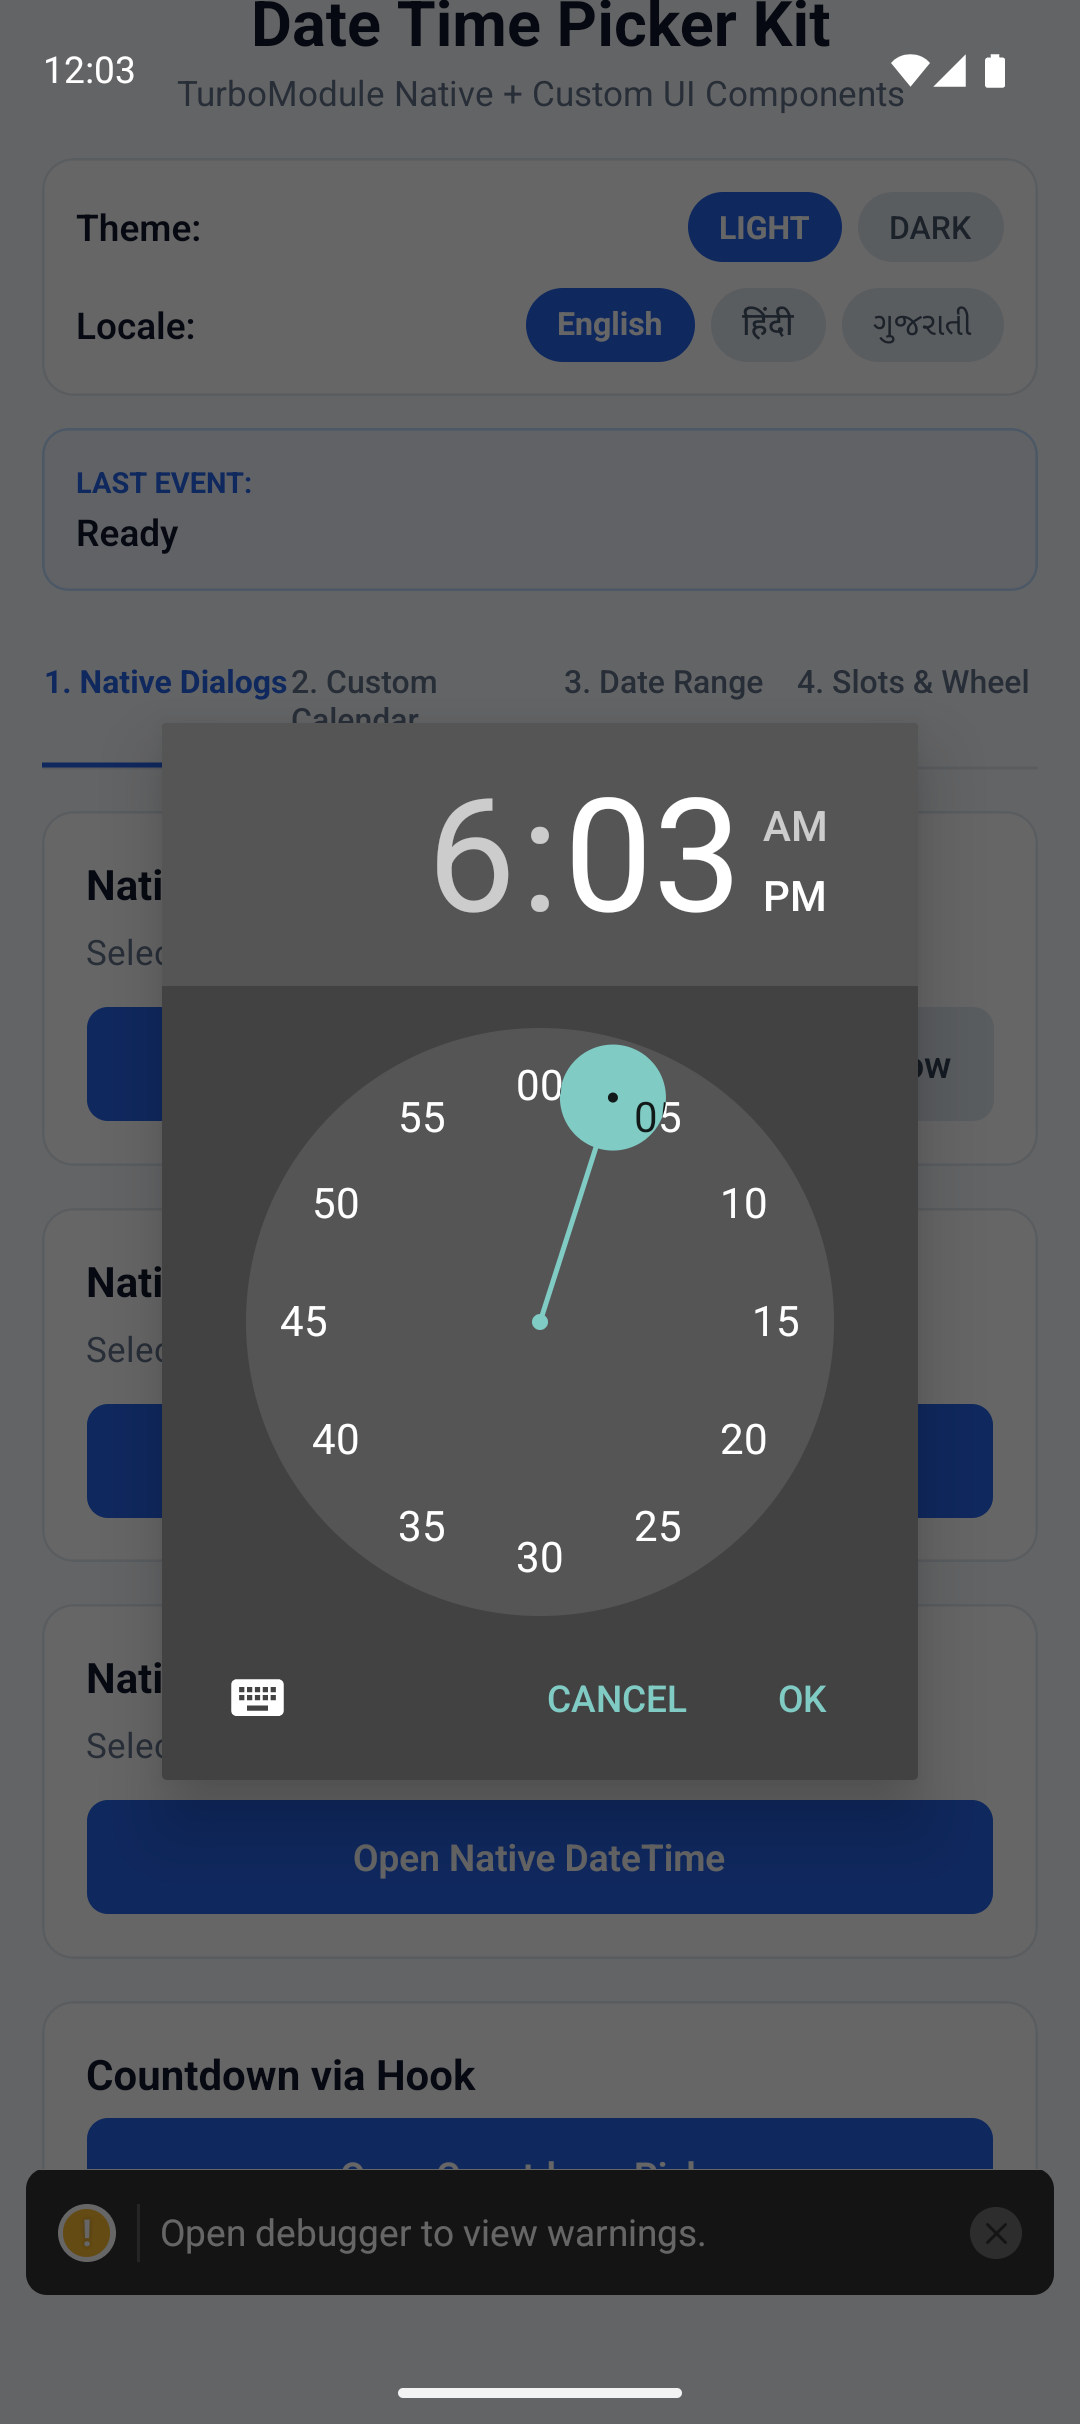
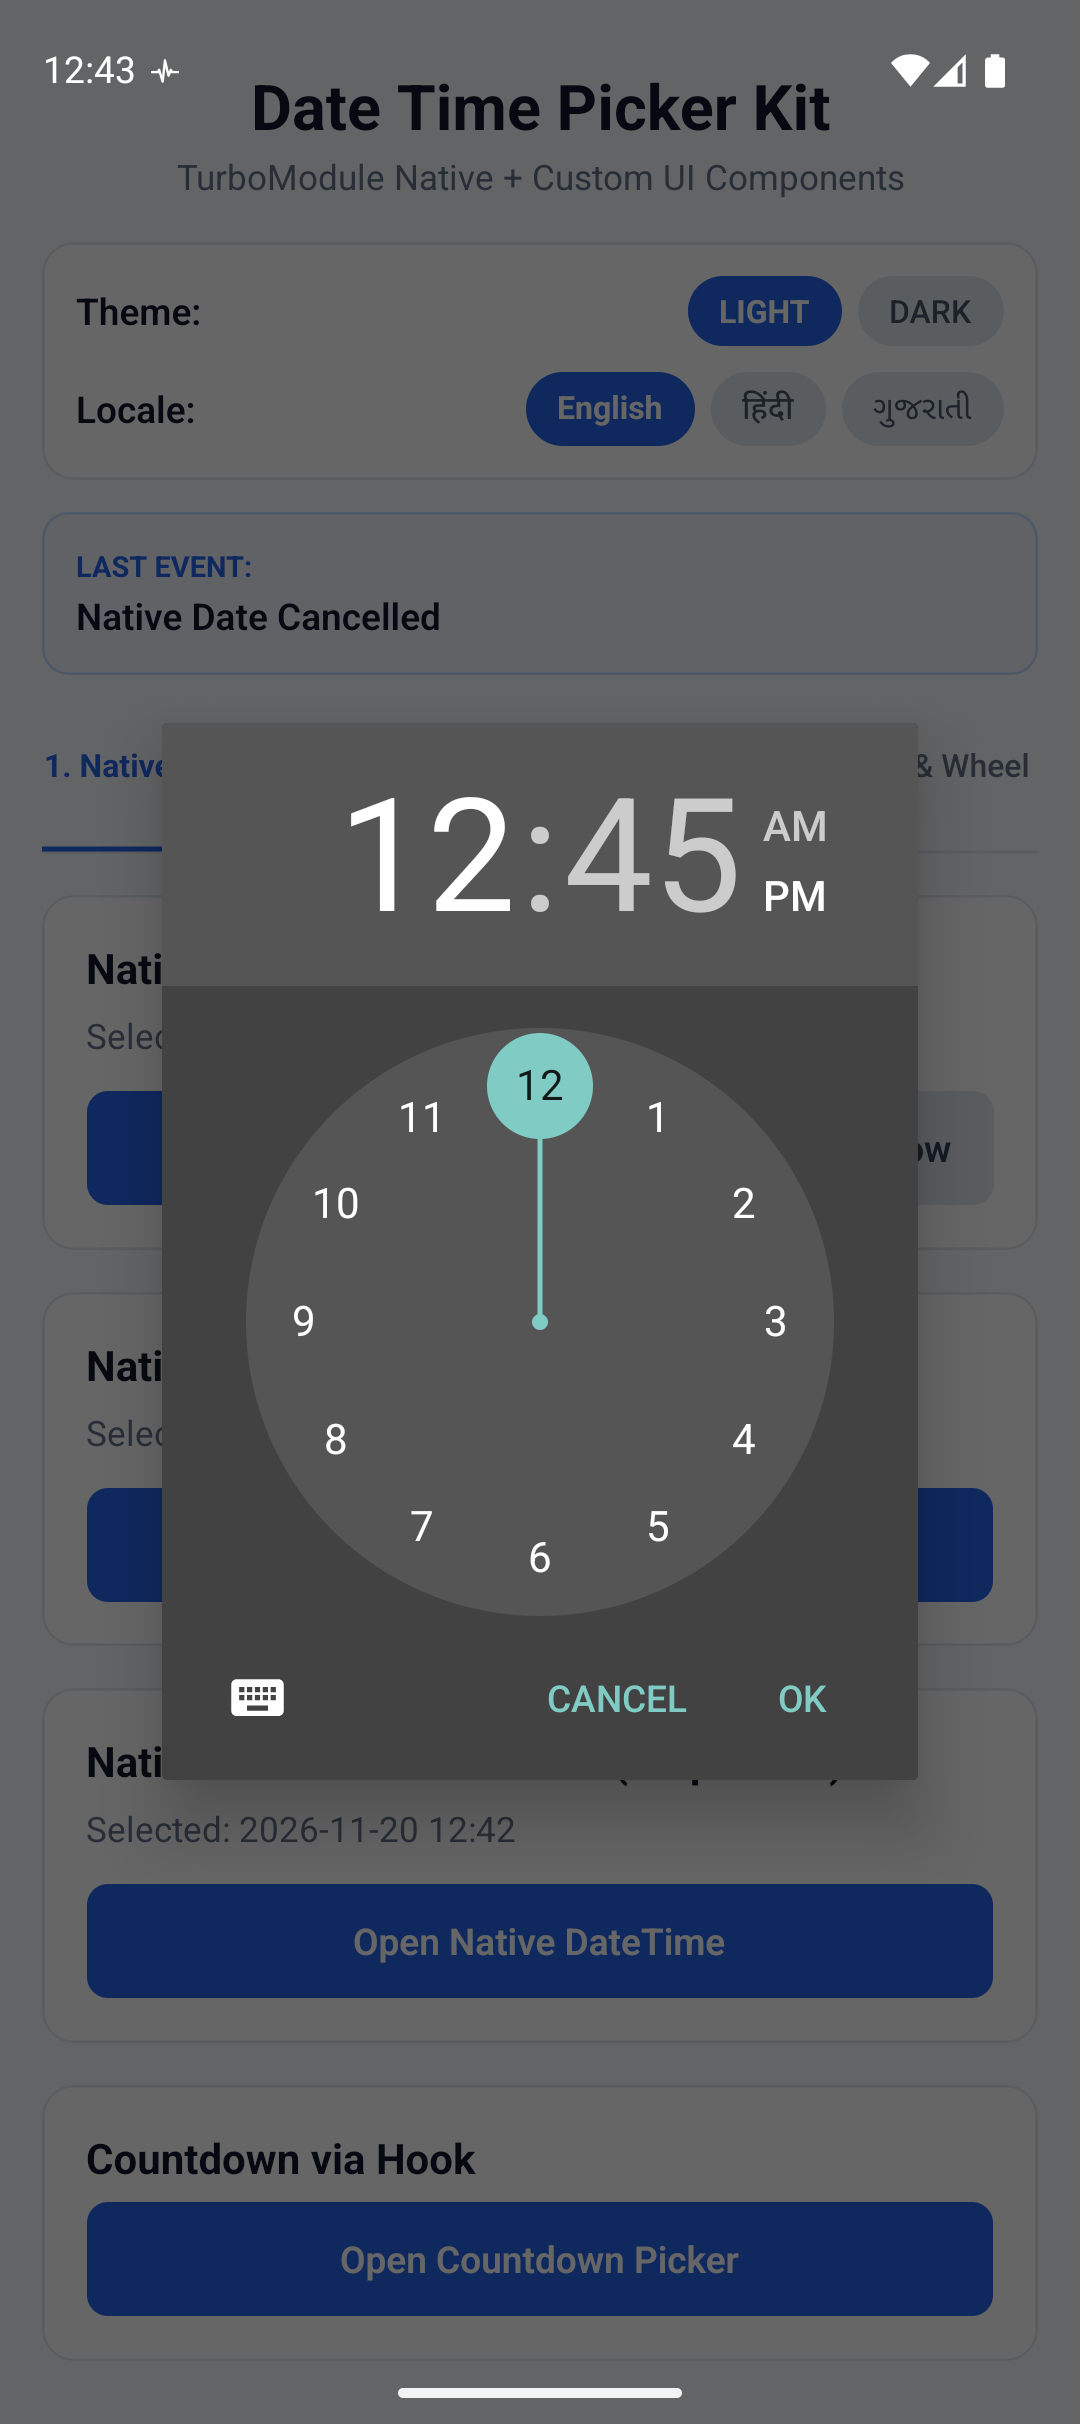
docs: update android screenshots with active dialogs and clean UI presentation

diff --git a/example/src/App.tsx b/example/src/App.tsx
@@ -1,6 +1,7 @@
 import { useRef, useState } from 'react';
 import {
   Alert,
+  LogBox,
   Platform,
   SafeAreaView,
   ScrollView,
@@ -9,6 +10,8 @@ import {
   TouchableOpacity,
   View,
 } from 'react-native';
+
+LogBox.ignoreAllLogs(true);
 import {
   CalendarPicker,
   DatePicker,
